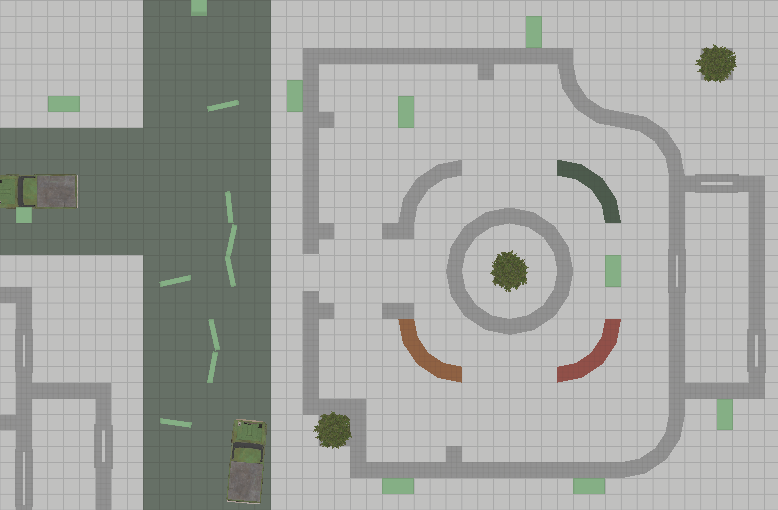
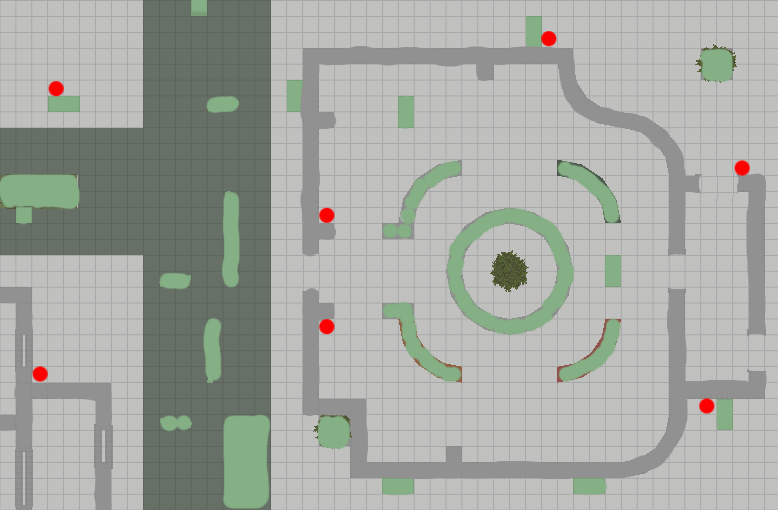
[+] fog of war test

diff --git a/fogOfWarTest/fogOfWarTest.py b/fogOfWarTest/fogOfWarTest.py
@@ -1,5 +1,6 @@
 import os
 from collections import defaultdict
+from functools import partial
 
 import cocos
 import pyglet
@@ -7,10 +8,19 @@ from cocos.batch import BatchNode
 from cocos.draw import Canvas
 from cocos.euclid import Point2
 
+# THINGS to tweak to get different effects
+g_should_trace_walls = True  # If this is False we don't trace against walls for line of sight. Meaning you will see everything withing a radius.
+g_fog_neighbour_radius = 0  # This is the radius that fog is uncovered from visible slots.
+g_player_view_radius = 28  # The radius that the player can see
+g_check_around_player = True  # If True we will check from the point of view around the player.
+
+# Don't change these values...
+# Constants
 director = cocos.director.director
 g_player_size = 1
 g_grid_size = 16
-
+FULL_COVER, HALF_COVER, NO_COVER = range(3)
+FRIEND, ENEMY = range(2)
 
 def world_to_grid(world_pos):
     return tuple(int(x // g_grid_size) for x in world_pos)
@@ -25,15 +35,16 @@ def align_pos_to_grid(position):
 
 
 class PlayerNode(cocos.cocosnode.CocosNode):
-    def __init__(self):
+    def __init__(self, player_type):
         super(PlayerNode, self).__init__()
 
-        player_path = os.path.abspath('../assets/white.png')
+        player_path = os.path.abspath('../assets/circle.png')
         player_img = pyglet.image.load(player_path)
         player = cocos.sprite.Sprite(
             image=player_img,
-            scale=g_grid_size,
-            color=(108, 255, 108)
+            scale=g_grid_size / 32.0,
+            color=(108, 255, 108) if player_type is FRIEND else (255, 108, 108),
+            anchor=(0, 0)
         )
 
         self.add(player)
@@ -45,18 +56,15 @@ class FogOfWarCanvas(Canvas):
         super(FogOfWarCanvas, self).__init__()
         self._current_state = fog_squares
         self._cached_state = defaultdict(lambda: True)
-        self.x = x
-        self.y = y
+        self.x = x - 1 if x > 0 else 0
+        self.y = y - 1 if y > 0 else 0
         self.cache_size = cache_size
 
     def needs_update(self):
         for x in xrange(self.x, self.x + self.cache_size):
             for y in xrange(self.y, self.y + self.cache_size):
                 world_grid_pos = x, y
-                world_pos = grid_to_world(world_grid_pos)
-                aligned_world_pos = align_pos_to_grid(self.point_to_local(world_pos))
-                fog_grid_pos = world_to_grid(aligned_world_pos)
-                if self._cached_state[fog_grid_pos] != self._current_state[fog_grid_pos]:
+                if self._cached_state[world_grid_pos] != self._current_state[world_grid_pos]:
                     return True
 
         return False
@@ -64,36 +72,37 @@ class FogOfWarCanvas(Canvas):
     def render(self):
         line_color = (50, 50, 50, 255)
 
-        self.set_stroke_width(g_grid_size)
+        self.set_stroke_width(g_grid_size + 2)
         self.set_color(line_color)
-        self.set_endcap(cocos.draw.SQUARE_CAP)
+        # self.set_endcap(cocos.draw.SQUARE_CAP)
+        self.set_join(cocos.draw.MITER_JOIN)
 
-        for x in xrange(self.x, self.x + self.cache_size):
-            for y in xrange(self.y, self.y + self.cache_size):
+        for x in xrange(self.x, self.x + self.cache_size + 1):
+            for y in xrange(self.y, self.y + self.cache_size + 1):
                 world_grid_pos = x, y
-
-                world_pos = grid_to_world(world_grid_pos)
-                aligned_world_pos = align_pos_to_grid(self.point_to_local(world_pos))
-
                 fog_visible = self._current_state[world_grid_pos]
                 self._cached_state[world_grid_pos] = fog_visible
 
                 if fog_visible:
-                    self.move_to(aligned_world_pos + Point2(0, g_grid_size))
+                    world_pos = grid_to_world(world_grid_pos)
+                    aligned_world_pos = (x * g_grid_size, y * g_grid_size) - Point2(g_grid_size / 2, g_grid_size / 2)
+
+                    self.move_to(aligned_world_pos)  # + Point2(0, g_grid_size))
                     self.line_to(aligned_world_pos + Point2(g_grid_size, 0))
 
 
 class FogOfWarNode(cocos.cocosnode.CocosNode):
-    def __init__(self):
+    def __init__(self, game_world):
         super(FogOfWarNode, self).__init__()
 
+        self.game_world = game_world
         self.fog_squares = defaultdict(lambda: True)
         self.fog_squares_screen_space = defaultdict(lambda: True)
 
         win_size = director.get_window_size()
-        grid_size = 2 + (win_size[0] / g_grid_size), 2 + (win_size[1] / g_grid_size)
+        grid_size = (win_size[0] / g_grid_size), (win_size[1] / g_grid_size)
         self.fog_grid = []
-        cache_size = 10
+        cache_size = 16
         for x in xrange(grid_size[0]):
             for y in xrange(grid_size[1]):
                 if x % cache_size == 0 and y % cache_size == 0:
@@ -113,31 +122,29 @@ class FogOfWarNode(cocos.cocosnode.CocosNode):
 
     def update_fog_grid(self):
         win_size = director.get_window_size()
-        grid_size = 2 + (win_size[0] / g_grid_size), 2 + (win_size[1] / g_grid_size)
+        grid_size = (win_size[0] / g_grid_size), (win_size[1] / g_grid_size)
 
-        for x in xrange(grid_size[0]):
-            for y in xrange(grid_size[1]):
+        for x in xrange(grid_size[0] + 1):
+            for y in xrange(grid_size[1] + 1):
                 world_grid_pos = x, y
 
                 world_pos = grid_to_world(world_grid_pos)
-                aligned_world_pos = align_pos_to_grid(self.point_to_local(world_pos))
+                aligned_world_pos = align_pos_to_grid(self.game_world.point_to_local(world_pos))
 
                 # Visible if anything is visible within a radius
                 fog_grid_pos = world_to_grid(aligned_world_pos)
                 fog_visible = self.fog_squares[fog_grid_pos]
 
                 if fog_visible:
-                    radius = 2
-                    square_radius = radius * radius
-                    for radius_x in xrange(-radius + 1, radius):
+                    radius = g_fog_neighbour_radius
+                    for radius_x in xrange(-radius, radius + 1):
                         if not fog_visible:
                             break
-                        for radius_y in xrange(-radius + 1, radius):
-                            if (abs(radius_x) * abs(radius_x) + abs(radius_y) * abs(radius_y)) <= square_radius:
-                                new_fog_grid_pos = tuple(fog_grid_pos + Point2(radius_x, radius_y))
-                                fog_visible = self.fog_squares[new_fog_grid_pos]
-                                if not fog_visible:
-                                    break
+                        for radius_y in xrange(-radius, radius + 1):
+                            new_fog_grid_pos = tuple(fog_grid_pos + Point2(radius_x, radius_y))
+                            fog_visible = self.fog_squares[new_fog_grid_pos]
+                            if not fog_visible:
+                                break
 
                 self.fog_squares_screen_space[world_grid_pos] = fog_visible
 
@@ -155,12 +162,15 @@ class GameLayer(cocos.layer.Layer):
     def __init__(self):
         super(GameLayer, self).__init__()
 
+        self.game_world = cocos.cocosnode.CocosNode()
+        self.add(self.game_world)
+
         self.keys_pressed = set()
-        self.player = PlayerNode()
-        self.add(self.player)
+        self.player = PlayerNode(FRIEND)
+        self.game_world.add(self.player)
 
         # Fog of war Node
-        self.fow = FogOfWarNode()
+        self.fow = FogOfWarNode(self.game_world)
 
         # Update camera
         self.update_camera()
@@ -172,36 +182,50 @@ class GameLayer(cocos.layer.Layer):
 
         # Batched node to draw obstacles
         self.obstacles_batch_node = BatchNode()
-        self.add(self.obstacles_batch_node)
+        self.game_world.add(self.obstacles_batch_node)
         self.obstacle_squares = {}
 
         # Load obstacles from image
         bg_texture_data = bg.image.get_image_data()
-        data = bg_texture_data.get_data('RGB', bg.width * 3)
-        valid_colors = [
-            [192, 192, 191],
-            [102, 112, 102],
-            [91, 91, 91],
-            [168, 168, 168],
-        ]
+        full_cover_colors = [[145, 145, 145]]
+        half_cover_colors = [[133, 175, 133]]
+        self.mark_cover_from_colors(full_cover_colors, FULL_COVER, bg)
+        self.mark_cover_from_colors(half_cover_colors, HALF_COVER, bg)
 
-        for x in range(g_grid_size / 2, bg.width, g_grid_size):
-            for y in range(g_grid_size / 2, bg.height, g_grid_size):
-                pos = (bg.width * y + x) * 3
+        self.enemies = []
+        enemy_colors = [[255, 0, 0]]
+        self.do_something_from_colors(enemy_colors, bg, self.add_enemy)
+
+        self.add(self.fow)
+
+    def add_enemy(self, position):
+        enemy = PlayerNode(ENEMY)
+        enemy.position = align_pos_to_grid(position)
+        self.enemies.append(enemy)
+        self.game_world.add(enemy)
+
+    @staticmethod
+    def do_something_from_colors(colors, sprite, callback):
+        bg_texture_data = sprite.image.get_image_data()
+        data = bg_texture_data.get_data('RGB', sprite.width * 3)
+        for x in range(g_grid_size / 2, sprite.width, g_grid_size):
+            for y in range(g_grid_size / 2, sprite.height, g_grid_size):
+                pos = (sprite.width * y + x) * 3
                 rgb = map(ord, data[pos:pos + 3])
                 valid = False
                 limit = 2
-                for valid_color in valid_colors:
+                for valid_color in colors:
                     if valid:
                         break
                     valid = True
                     for i in range(0, 3):
                         valid = valid and abs(valid_color[i] - rgb[i]) < limit
 
-                if not valid:
-                    self.set_grid_obstructed((x, y), True)
+                if valid:
+                    callback(position=(x, y))
 
-        self.add(self.fow)
+    def mark_cover_from_colors(self, colors, cover_type, sprite):
+        self.do_something_from_colors(colors, sprite, partial(self.set_grid_obstructed, obstructed_type=cover_type))
 
     def on_key_press(self, key, modifiers):
         self.keys_pressed.add(key)
@@ -222,29 +246,53 @@ class GameLayer(cocos.layer.Layer):
                 self.player.position = grid_to_world(new_pos)
 
                 # Do circle around player
-                radius = 20
+                radius = g_player_view_radius
                 square_radius = radius * radius
-                for x in xrange(-radius + 1, radius):
-                    for y in xrange(-radius + 1, radius):
+                for x in xrange(-radius, radius + 1):
+                    for y in xrange(-radius, radius + 1):
                         if (x * x + y * y) <= square_radius:
-                            hit, hit_pos = self.raytrace(new_pos, new_pos + (x, y))
+                            target_pos = new_pos + (x, y)
+                            hit, hit_pos = self.raytrace(new_pos, target_pos, ignore_half_cover=True)
+                            if hit:
+                                self.fow.set_grid_pos_visible(hit_pos, True)
+
+                            # Check from around the player if we can't see.
+                            if hit and g_check_around_player:
+                                moves = [
+                                    Point2(1, 0),
+                                    Point2(-1, 0),
+                                    Point2(0, 1),
+                                    Point2(0, -1),
+                                    Point2(1, 1),
+                                    Point2(1, -1),
+                                    Point2(-1, 1),
+                                    Point2(-1, -1),
+                                ]
+                                for move in moves:
+                                    if self.is_valid_player_grid_pos(new_pos + move):
+                                        hit, hit_pos = self.raytrace(new_pos + move, target_pos, ignore_half_cover=True)
+                                        if hit:
+                                            self.fow.set_grid_pos_visible(hit_pos, True)
+                                        elif not hit:
+                                            break
+
                             if not hit:
                                 self.fow.set_grid_pos_visible(new_pos + (x, y), True)
 
                 self.update_camera()
 
     def update_camera(self):
-        world_pos = self.point_to_world(self.player.position)
+        world_pos = self.game_world.point_to_world(self.player.position)
         win_size = director.get_window_size()
-        padding = 100
+        padding = 96
         if world_pos[0] < padding:
-            self.position += Point2(padding - world_pos[0], 0)
+            self.game_world.position += Point2(padding - world_pos[0], 0)
         elif (win_size[0] - world_pos[0]) < padding:
-            self.position -= Point2(padding - (win_size[0] - world_pos[0]), 0)
+            self.game_world.position -= Point2(padding - (win_size[0] - world_pos[0]), 0)
         if world_pos[1] < padding:
-            self.position += Point2(0, padding - world_pos[1])
+            self.game_world.position += Point2(0, padding - world_pos[1])
         elif (win_size[1] - world_pos[1]) < padding:
-            self.position -= Point2(0, padding - (win_size[1] - world_pos[1]))
+            self.game_world.position -= Point2(0, padding - (win_size[1] - world_pos[1]))
 
         self.fow.update_fog_grid()
 
@@ -252,21 +300,22 @@ class GameLayer(cocos.layer.Layer):
         grid_pos = tuple(int(v) for v in grid_pos)
         return grid_pos not in self.obstacle_squares
 
-    def set_grid_obstructed(self, position, is_obstructed):
+    def set_grid_obstructed(self, position, obstructed_type):
         grid_pos = world_to_grid(position)
 
         # Check if we don't need to do anything
-        if grid_pos in self.obstacle_squares and is_obstructed:
+        if grid_pos in self.obstacle_squares and self.obstacle_squares[grid_pos].cover_type == obstructed_type:
             return
 
-        if is_obstructed:
+        if obstructed_type == FULL_COVER or obstructed_type == HALF_COVER:
             obstacle_path = os.path.abspath('../assets/white.png')
             obstacle_img = pyglet.image.load(obstacle_path)
             obstacle = cocos.sprite.Sprite(
                 image=obstacle_img,
                 scale=g_grid_size,
-                color=(128, 128, 128)
+                color=(128, 128, 128) if obstructed_type == FULL_COVER else (50, 128, 50)
             )
+            obstacle.cover_type = obstructed_type
             obstacle.position = grid_to_world(grid_pos)
             self.obstacles_batch_node.add(obstacle)
             self.obstacle_squares[grid_pos] = obstacle
@@ -275,7 +324,10 @@ class GameLayer(cocos.layer.Layer):
             self.obstacles_batch_node.remove(current_obstacle)
             del self.obstacle_squares[grid_pos]
 
-    def raytrace(self, grid_pos_start, grid_pos_end):
+    def raytrace(self, grid_pos_start, grid_pos_end, ignore_half_cover=False):
+        if not g_should_trace_walls:
+            return False, None
+
         x0, y0 = grid_pos_start
         x1, y1 = grid_pos_end
         dx, dy = abs(x1 - x0), abs(y1 - y0)
@@ -289,7 +341,8 @@ class GameLayer(cocos.layer.Layer):
 
         for _ in xrange(n):
             if (x, y) in self.obstacle_squares:
-                return True, (x, y)  # We hit something
+                if ignore_half_cover and self.obstacle_squares[(x, y)].cover_type != HALF_COVER:
+                    return True, (x, y)  # We hit something
             if error > 0:
                 x += x_inc
                 error -= dy
@@ -337,12 +390,13 @@ class DebugConsole(cocos.layer.Layer):
 if __name__ == "__main__":
     director.init(
         fullscreen=False,
-        width=1036,
-        height=510
+        width=16 * 80,
+        height=16 * 50
     )
-    director.show_FPS = True
-
+    # director.show_FPS = True
+    game_layer = GameLayer()
+    #game_layer.scale = 0.5
     director.run(cocos.scene.Scene(
-        GameLayer(),
+        game_layer,
         DebugConsole()
     ))
